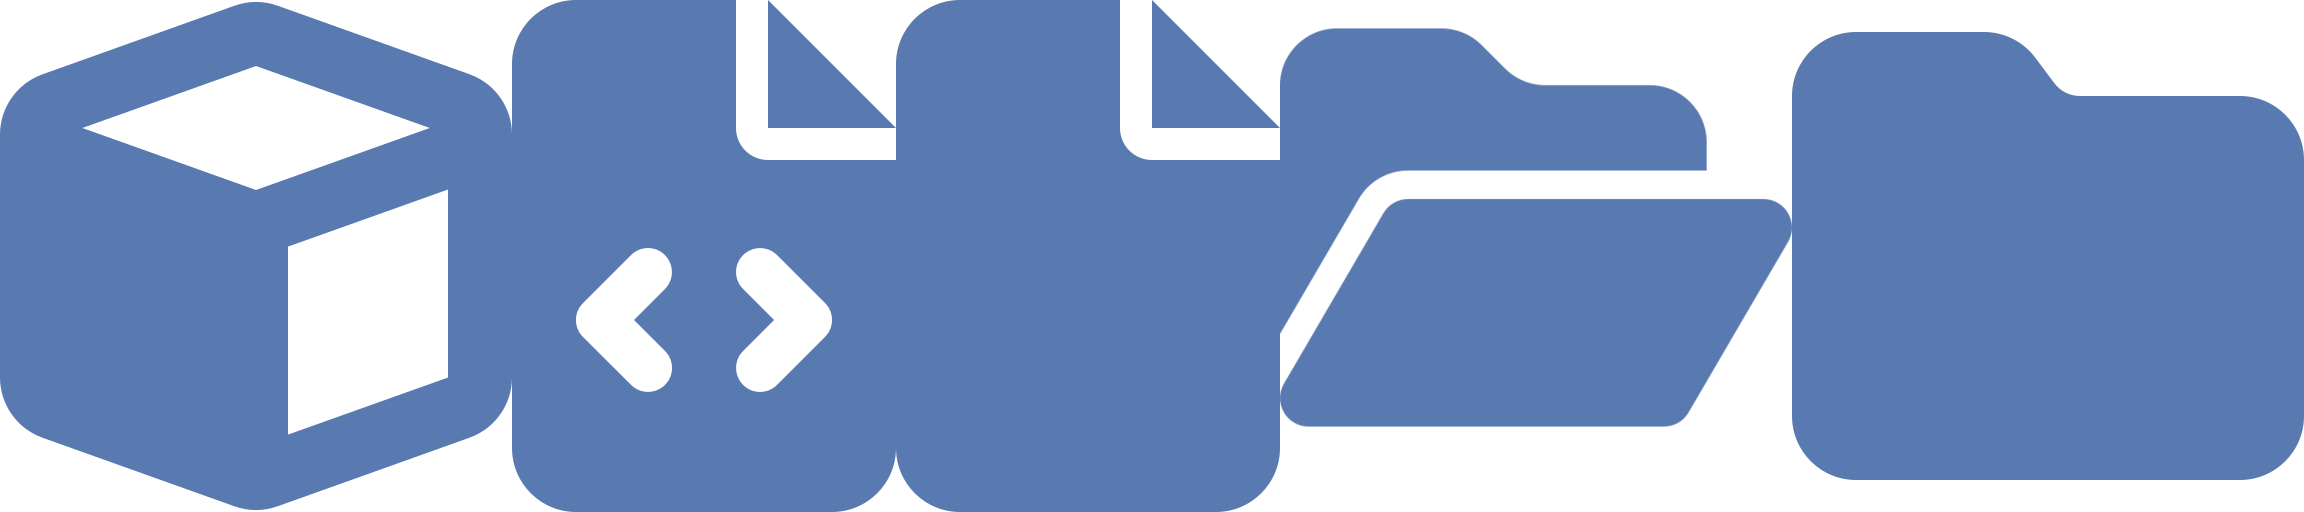
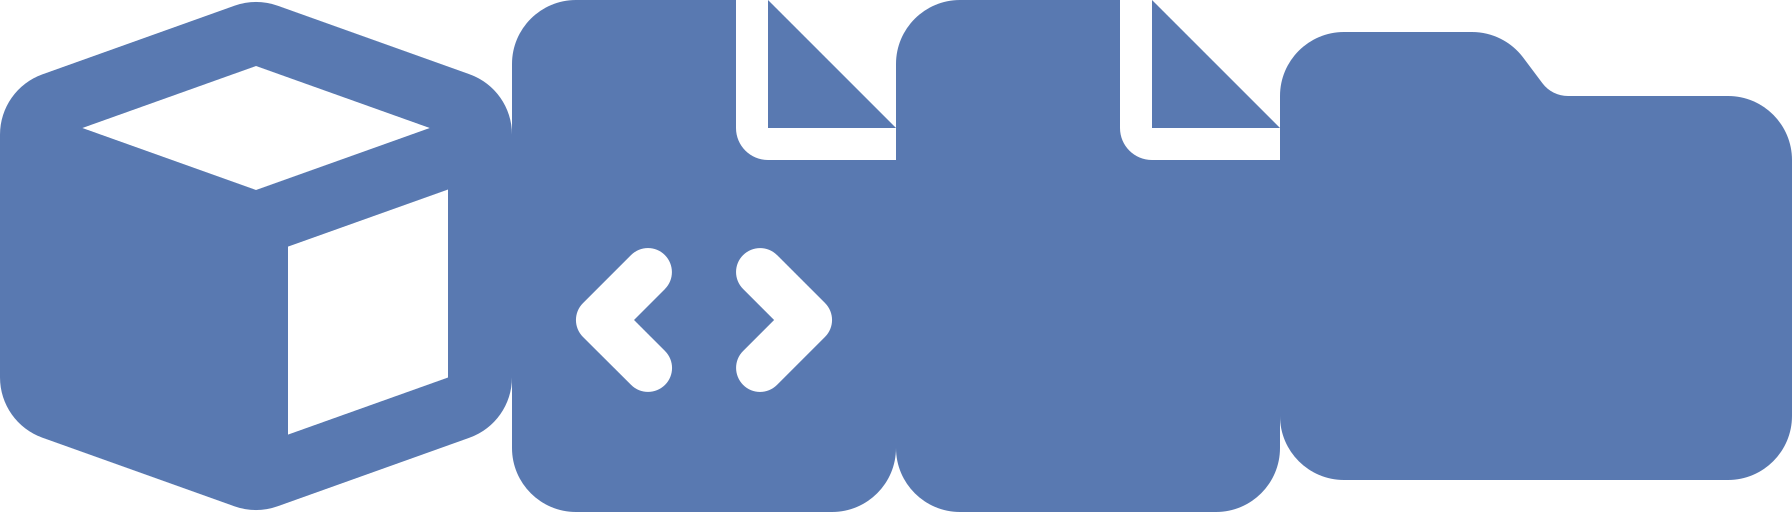
added file explorer options

diff --git a/src/UI/FileExplorer/FileExplorer.cpp b/src/UI/FileExplorer/FileExplorer.cpp
@@ -8,10 +8,11 @@ namespace fs = std::filesystem;
 
 void FileExplorer::Init(){
     File::RegisterFile("default", SET_FILE(Default));
+    File::RegisterFile("folder", SET_FILE(Folder));
     File::RegisterFile(".lua", SET_FILE(LuaFile));
     File::RegisterFile(".scene", SET_FILE(SceneFile));
     m_IconAtlas.AtlasID = LoadTexture("Assets/IconsAtlas.png");
-    m_IconAtlas.AtlasSize = glm::vec2(2304,512);
+    m_IconAtlas.AtlasSize = glm::vec2(1792,512);
     Engine::Get().GetWindows().InitWindow("FileExplorer");
 }
 
@@ -23,6 +24,7 @@ void FileExplorer::Open(std::string path)
     int rows = 1;
     for (const auto &entry : fs::directory_iterator(path))
     {
+        
         std::string FileName = entry.path().filename().string();
         if(m_Files.find(FileName) == m_Files.end())
         {
@@ -31,6 +33,7 @@ void FileExplorer::Open(std::string path)
         m_Files[FileName]->RenderGUI(entry, Position, m_IconAtlas, m_SelectedFile);
         if (ImGui::IsItemClicked(ImGuiMouseButton_Right))
         {
+            // MouseInput(entry.path());
             m_Files[FileName]->OnRightClick(entry);
             m_RightClicked = true;
         }
@@ -53,6 +56,7 @@ void FileExplorer::Open(std::string path)
         }
     }
     MouseInput(m_SelectedFile);
+    if(m_CopiedFilePath.string() != "") SapphireEngine::Log(m_CopiedFilePath.string(), SapphireEngine::Info);
     ImGui::End();
 }
 
@@ -77,25 +81,30 @@ end
 function OnCollision()
 
 end)";
-            stream.close();
+        stream.close();
         }
-        // if (ImGui::MenuItem("Copy"))
-        // {
-        //     m_CopiedFilePath = &path;
-        //     m_SelectedCut = false;
-        // }
-        // if (ImGui::MenuItem("Cut"))
-        // {
-        //     m_CopiedFilePath = &path;
-        //     m_SelectedCut = true;
-        // }
-        // if (ImGui::MenuItem("Paste"))
-        // {
-        //     fs::copy_file(*m_CopiedFilePath, "C:/Gelis/test.scene", fs::copy_options::overwrite_existing);
-        //     if(m_SelectedCut){
-        //         fs::remove(*m_CopiedFilePath);
-        //     }
-        // }
+        if (ImGui::MenuItem("Copy"))
+        {
+            m_CopiedFilePath = path;
+            m_SelectedCut = false;
+        }
+        if (ImGui::MenuItem("Cut"))
+        {
+            m_CopiedFilePath = path;
+            m_SelectedCut = true;
+        }
+        if (ImGui::MenuItem("Paste"))
+        {
+            std::string test = Engine::Get().GetWindows().CurrentPath + "/" + (m_CopiedFilePath).filename().string();
+            fs::copy_file(m_CopiedFilePath, Engine::Get().GetWindows().CurrentPath + "/" + (m_CopiedFilePath).filename().string(), fs::copy_options::overwrite_existing);
+            if(m_SelectedCut){
+                fs::remove(m_CopiedFilePath);
+            }
+        }
+        if (ImGui::MenuItem("Delete"))
+        {
+            fs::remove(path);
+        }
         ImGui::EndPopup();
     }
 }

diff --git a/src/UI/FileExplorer/File.h b/src/UI/FileExplorer/File.h
@@ -37,8 +37,22 @@ class Default : public File
         }
         void OnDoubleClick(std::filesystem::directory_entry entry) override
         {
-            // WinExec((std::string("code ") + Engine::Get().GetMainPath()).c_str(), SW_HIDE);
-            // SapphireEngine::Log("Open script!", SapphireEngine::Info);
+        }
+};
+class Folder : public File
+{
+    public:
+        void SetIconPos() override{ 
+            m_IconPos = glm::vec2(1281,0); 
+            m_IconSize = glm::vec2(512,512); 
+        }
+        void OnClick(std::filesystem::directory_entry entry) 
+        {
+
+        }
+        void OnDoubleClick(std::filesystem::directory_entry entry) override
+        {
+            Engine::Get().GetWindows().CurrentPath = entry.path().string();
         }
 };
 
@@ -55,7 +69,7 @@ class LuaFile : public File
         }
         void OnDoubleClick(std::filesystem::directory_entry entry) override
         {
-            // WinExec((std::string("code ") + Engine::Get().GetMainPath()).c_str(), SW_HIDE);
+            system(("code " + entry.path().string()).c_str()); // Open the script in visual studio code
             SapphireEngine::Log("Open script!", SapphireEngine::Info);
         }
 };

diff --git a/src/UI/FileExplorer/File.cpp b/src/UI/FileExplorer/File.cpp
@@ -6,10 +6,16 @@ void File::RegisterFile(const std::string &extension, std::function<std::shared_
 
 std::shared_ptr<File> File::CreateFile(const std::string &extension, std::string NewPath, std::string NewName)
 {
-
     auto creationFunction = File::FileCreationMap.find(extension);
     if (creationFunction != File::FileCreationMap.end()) {
         std::shared_ptr NewFile = creationFunction->second();
+        NewFile->Name = NewName;
+        NewFile->Path = NewPath;
+        NewFile->SetIconPos();
+        return NewFile;
+    }else if(std::filesystem::is_directory(Engine::Get().GetWindows().CurrentPath + NewPath))
+    {
+        std::shared_ptr NewFile = File::FileCreationMap["folder"]();
         NewFile->Name = NewName;
         NewFile->Path = NewPath;
         NewFile->SetIconPos();

diff --git a/src/UI/Windows.cpp b/src/UI/Windows.cpp
@@ -24,6 +24,7 @@ void Windows::Init(std::string&& Path){
     io.ConfigWindowsMoveFromTitleBarOnly = true;
     bool dockspaceOpen = true;
     this->MainPath = Path;
+    this->CurrentPath = Path;
     ImGuiWindowFlags dockspaceFlags = ImGuiWindowFlags_NoDocking | ImGuiWindowFlags_NoTitleBar | ImGuiWindowFlags_NoCollapse | ImGuiWindowFlags_NoResize | ImGuiWindowFlags_NoMove | ImGuiWindowFlags_NoBringToFrontOnFocus | ImGuiWindowFlags_NoNavFocus;
 
     ImGuiStyle& style = ImGui::GetStyle();

diff --git a/src/UI/Windows.h b/src/UI/Windows.h
@@ -20,9 +20,10 @@ class Windows{
         void SetWindowState(std::string&& WindowName, bool state);
         bool* GetWindowState(std::string&& WindowName);
         std::string MainPath;
+        std::string CurrentPath; // The difference is that is the path for the file explorer.
         ImGuiContext* GetContext() {return DefaultContext;}
         ImGuiIO* GetWindowIO() {return IO;}
-
+        
     private:
         ImGuiContext* DefaultContext;
         ImGuiIO* IO;

diff --git a/src/Engine/Engine.cpp b/src/Engine/Engine.cpp
@@ -76,7 +76,7 @@ void Engine::Run()
 
         m_Windows.DockSpace();
         m_Windows.Toolbar();
-        FileExplorer::Open(m_Windows.MainPath);
+        FileExplorer::Open(m_Windows.CurrentPath);
         if(m_Viewport.SelectedObj != nullptr) m_Viewport.SelectedObj->Inspect();
         m_Windows.LogWindow();
         m_ActiveScene.Hierechy(m_Viewport.SelectedObj);

diff --git a/src/UI/FileExplorer/FileExplorer.h b/src/UI/FileExplorer/FileExplorer.h
@@ -17,6 +17,6 @@ class FileExplorer
         inline static std::string m_SelectedFile;
         inline static std::string m_NewFileName;
         inline static bool m_SelectedCut;
-        inline static std::filesystem::path* m_CopiedFilePath;
+        inline static std::filesystem::path m_CopiedFilePath;
         static void MouseInput(std::filesystem::path path);
 };
